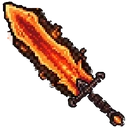
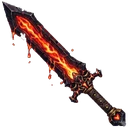
화염검 그림을 새 그림으로 바꾸고 흰 테두리를 지워 손잡이 좌표를 다시 맞춘다
Claude-Session: https://claude.ai/code/session_01Gwv45QP5Hv2erexXEgws5m

diff --git a/src/game/rpgArt.js b/src/game/rpgArt.js
@@ -34,7 +34,7 @@ const WARRIOR_HAND = {
   f: { front: [94, 205, 123], turn: [71, 197, 133], side: [46, 197, 125], back: [95, 198, 62] },
 };
 const WEAPON_GRIP = {
-  clockwork: [28, 26, 122, 122], coral: [26, 102, 120, 4], flame: [102, 100, 8, 6], forest: [95, 104, 12, 6],
+  clockwork: [28, 26, 122, 122], coral: [26, 102, 120, 4], flame: [97, 94, 4, 4], forest: [95, 104, 12, 6],
   frost: [100, 100, 6, 4], holy: [92, 94, 12, 10], shadow: [104, 108, 12, 6], star: [102, 102, 6, 6],
   thunder: [24, 100, 120, 6], viper: [36, 44, 122, 118],
   // 지팡이 — 손잡이 → 머리, 활 — 손잡이 → 위쪽 끝

diff --git a/src/game/updates.js b/src/game/updates.js
@@ -6,6 +6,13 @@ export const RPG_NOTICE = { id: "2026-10-36", notes: ["2026-10-36", "2026-10-35"
 
 export const UPDATES = [
   {
+    id: "2026-10-45",
+    date: "10월 16일",
+    items: [
+      "화염검 그림이 새로 바뀌었습니다.",
+    ],
+  },
+  {
     id: "2026-10-44",
     date: "10월 16일",
     items: [

diff --git a/tools/cut-weapons.py b/tools/cut-weapons.py
@@ -14,7 +14,7 @@ from scipy import ndimage as nd
 SRC = "design/weapons/"
 DST = "public/assets/game/rpg/weapons/"
 # 그림마다 바탕 — white 흰 바탕 · black 검은 바탕 · checker 흰 바탕 + 가짜 체크무늬 · frame 액자 안 검은 바탕
-KIND = {"flame": "checker", "thunder": "black", "forest": "black", "viper": "white", "frost": "black",
+KIND = {"flame": "black", "thunder": "black", "forest": "black", "viper": "white", "frost": "black",
         "star": "white", "holy": "frame", "clockwork": "black", "coral": "white", "shadow": "white",
         # 지팡이
         "flame_staff": "black", "galaxy_staff": "black", "moon_staff": "black", "ice_staff": "frame",
@@ -30,6 +30,8 @@ DARK_RIM = {"thunder_staff", "star_bow"}
 DARK_FILL = {"star_bow": (34, 80), "gold_bow": (34, 80)}
 # 번개 선에 갇혀 바탕 지우기가 닿지 않은 검은 덩어리 — 원본 좌표 상자 안의 검은 곳만 지운다
 ERASE_DARK = {"thunder_staff": [(0, 110, 95, 200), (60, 200, 170, 270)]}
+# 검은 바탕과 그림 사이에 얇은 흰 테두리(스티커 선)가 있는 그림 — 바탕과 이어진 흰 선까지 지운다
+WHITE_RIM = {"flame"}
 # 액자 그림 — 잘라 낼 바깥 폭(px)과 액자 안 바탕
 FRAME = {"holy": (44, "black"), "ice_staff": (68, "black"), "skull_staff": (58, "white"), "gold_bow": (112, "black")}
 
@@ -78,6 +80,9 @@ def cut(i):
             rgb[..., c][k] = np.clip((im[..., c][k] - 255 * (1 - a[k])) / a[k], 0, 255)
     else:
         bg = flood(mx < 26)
+        if i in WHITE_RIM:
+            rim = (mn > 150) & (sat < 50) & nd.binary_dilation(bg, iterations=4)   # 바탕 바로 옆의 흰 선만 — 칼자루의 밝은 쇠는 남긴다
+            bg = flood(bg | rim)
         hole = (mx < 18) & ~bg                       # 손잡이 고리 안처럼 갇힌 바탕
         lab, n = nd.label(hole)
         area = nd.sum(hole, lab, range(1, n + 1))
